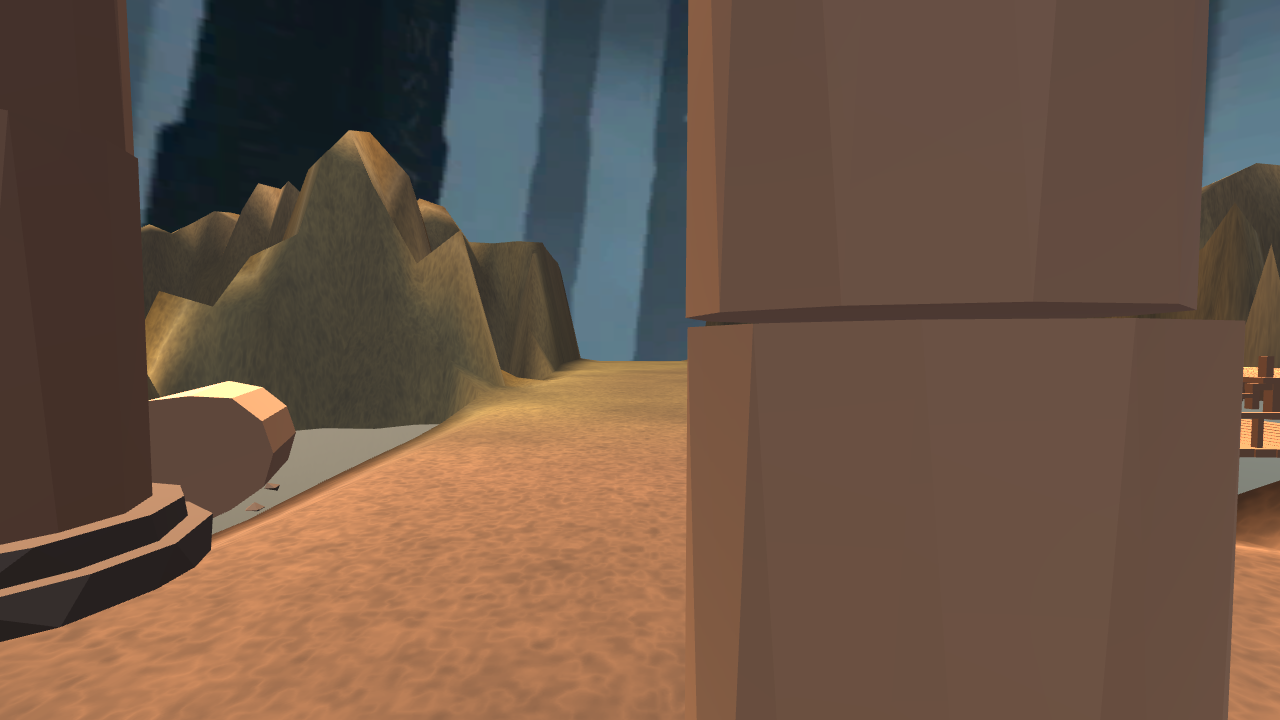
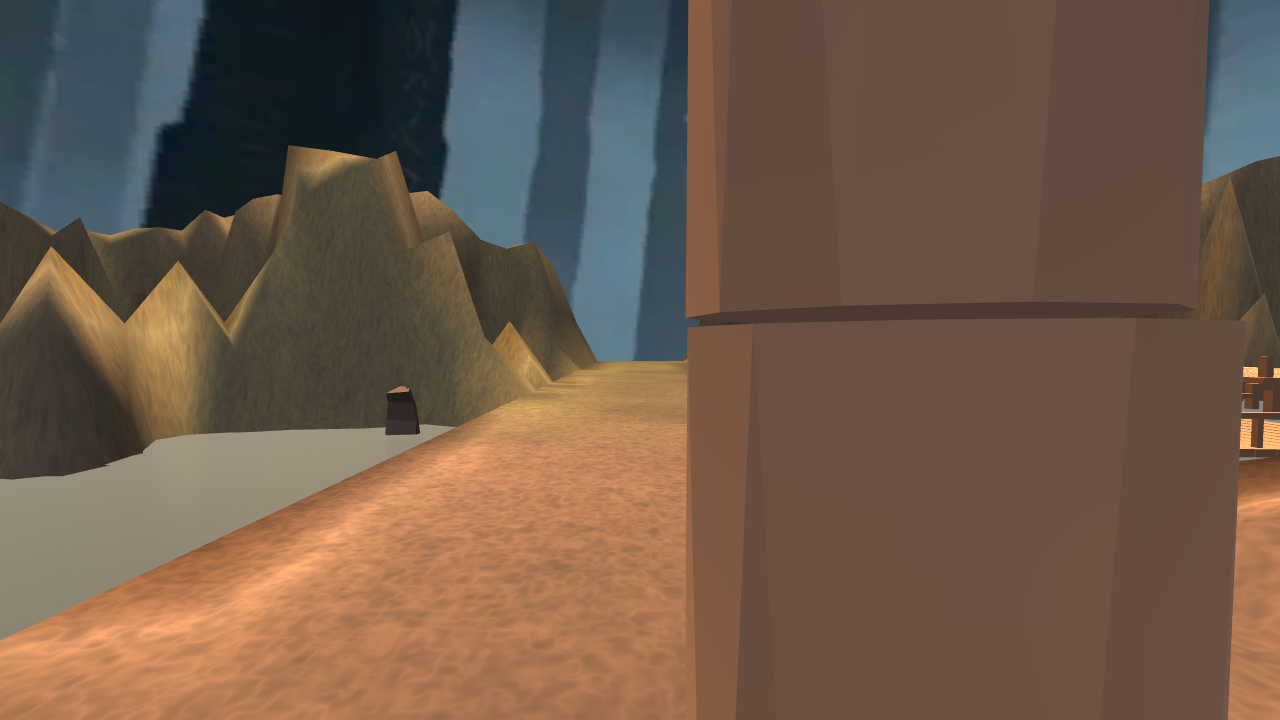
preview: 🏔 애추 사면 배선 완료 — 3070 scree_apron·cliff_buttress를 DressScree로 급사면 기부에(애추 치마+수직 스퍼). §4W.1 루프 #15: 지질정합성 PARTIAL→MET. **6기준 전부 MET — 정련 루프 15회 만에 완전 수렴.** 지질·재질·물·기능·접지·무아티팩트 전부 통과. 예산 안전(메시 트림). 루프 로그 plan.html #1~#15

diff --git a/assets.html b/assets.html
@@ -27,6 +27,6 @@
 <header><h1>생성 에셋 — 킷 라이브러리</h1>
 <div class="sub">3070(Blender)이 프로시저럴 생성한 다크판타지 저폴리 킷 + 타일러블 텍스처. 이 페이지는 저장소를 스캔해 <b>자동 생성</b>된다(신규 산출물이 게시마다 반영). 조각별 LOD0/LOD1·재질 수, 텍스처 배선 상태 실측.</div></header>
 <div class="nav"><a href="index.html">라이브 맵</a><a href="plan.html">월드 생성 계획</a><a href="assets.html" class="here">🧱 생성 에셋</a></div>
-<div class="note">킷 46종 · 프리뷰 51장 · 총 LOD0 24,942 tri (예산 26,000) · 텍스처 6장. 저장소 스캔으로 자동 생성(gen-asset-gallery.py, preview-mirror 훅).</div>
-<div class="wrap"><h2 class="fam">🎨 타일러블 텍스처 (seamless 512² 베이크)</h2><div class="tnote">3070 프로시저럴 베이크. 평균색이 팔레트 값과 일치(§0 리맵 무결) → .mat은 _Color=흰색으로 배선. 배선 상태는 <code>WirePaletteTextures.Slots</code>에서 자동 유도.</div><div class="agrid"><div class="acard"><div class="aframe tframe"><img src="tex/corrupt_glow_albedo.png" alt="corrupt_glow_albedo" loading="lazy"></div><div class="acap"><b>발광(부패) 알베도</b><span>corrupt_glow_albedo</span><span class="tmeta">가는 균사+포자 반점</span><span class="tstat ok">배선됨 ✔</span></div></div><div class="acard"><div class="aframe tframe"><img src="tex/ground_detail.png" alt="ground_detail" loading="lazy"></div><div class="acap"><b>지면 디테일(그레이스케일)</b><span>ground_detail</span><span class="tmeta">자갈·흙 명도 곱셈 · GroundVertex ×</span><span class="tstat ok">배선됨 ✔</span></div></div><div class="acard"><div class="aframe tframe"><img src="tex/ground_detail_b.png" alt="ground_detail_b" loading="lazy"></div><div class="acap"><b>ground_detail_b</b><span>ground_detail_b</span><span class="tmeta">타일러블 텍스처</span><span class="tstat wait">게이트/재베이크 대기</span></div></div><div class="acard"><div class="aframe tframe"><img src="tex/stone_dark_albedo.png" alt="stone_dark_albedo" loading="lazy"></div><div class="acap"><b>석재(어두움) 알베도</b><span>stone_dark_albedo</span><span class="tmeta">미세 입자+균열망+깨진 모서리</span><span class="tstat ok">배선됨 ✔</span></div></div><div class="acard"><div class="aframe tframe"><img src="tex/stone_light_albedo.png" alt="stone_light_albedo" loading="lazy"></div><div class="acap"><b>석재(밝음) 알베도</b><span>stone_light_albedo</span><span class="tmeta">거친 얼룩+완만 균열+이끼 반점</span><span class="tstat ok">배선됨 ✔</span></div></div><div class="acard"><div class="aframe tframe"><img src="tex/wood_aged_albedo.png" alt="wood_aged_albedo" loading="lazy"></div><div class="acap"><b>목재(노후) 알베도</b><span>wood_aged_albedo</span><span class="tmeta">Y축 결+나이테+옹이</span><span class="tstat ok">배선됨 ✔</span></div></div></div><h2 class="fam">벽·구조 (Walls & Structure)</h2><div class="agrid"><div class="acard"><div class="aframe"><img src="kit/wall_segment_4m.png" alt="wall_segment_4m" loading="lazy"></div><div class="acap"><b>wall_segment_4m</b><span>LOD0 1376 · LOD1 600 · 재질 2</span></div></div><div class="acard"><div class="aframe"><img src="kit/wall_corner.png" alt="wall_corner" loading="lazy"></div><div class="acap"><b>wall_corner</b><span>LOD0 1828 · LOD1 600 · 재질 2</span></div></div><div class="acard"><div class="aframe"><img src="kit/wall_window_4m.png" alt="wall_window_4m" loading="lazy"></div><div class="acap"><b>wall_window_4m</b><span>LOD0 756 · LOD1 400 · 재질 2</span></div></div><div class="acard"><div class="aframe"><img src="kit/wall_door_4m.png" alt="wall_door_4m" loading="lazy"></div><div class="acap"><b>wall_door_4m</b><span>LOD0 800 · LOD1 400 · 재질 2</span></div></div><div class="acard"><div class="aframe"><img src="kit/wall_jetty_4m.png" alt="wall_jetty_4m" loading="lazy"></div><div class="acap"><b>wall_jetty_4m</b><span>LOD0 768 · LOD1 500 · 재질 3</span></div></div><div class="acard"><div class="aframe"><img src="kit/arch_gate.png" alt="arch_gate" loading="lazy"></div><div class="acap"><b>arch_gate</b><span>LOD0 1276 · LOD1 600 · 재질 2</span></div></div><div class="acard"><div class="aframe"><img src="kit/foundation_plinth.png" alt="foundation_plinth" loading="lazy"></div><div class="acap"><b>foundation_plinth</b><span>LOD0 312 · LOD1 150 · 재질 1</span></div></div><div class="acard"><div class="aframe"><img src="kit/floor_tile_2m.png" alt="floor_tile_2m" loading="lazy"></div><div class="acap"><b>floor_tile_2m</b><span>LOD0 848 · LOD1 600 · 재질 2</span></div></div></div><h2 class="fam">지붕·건물 (Roofs & Building)</h2><div class="agrid"><div class="acard"><div class="aframe"><img src="kit/roof_gable_4m.png" alt="roof_gable_4m" loading="lazy"></div><div class="acap"><b>roof_gable_4m</b><span>LOD0 552 · LOD1 300 · 재질 2</span></div></div><div class="acard"><div class="aframe"><img src="kit/roof_gable_end_8.png" alt="roof_gable_end_8" loading="lazy"></div><div class="acap"><b>roof_gable_end_8</b><span>LOD0 316 · LOD1 200 · 재질 2</span></div></div><div class="acard"><div class="aframe"><img src="kit/roof_gable_end_12.png" alt="roof_gable_end_12" loading="lazy"></div><div class="acap"><b>roof_gable_end_12</b><span>LOD0 316 · LOD1 200 · 재질 2</span></div></div><div class="acard"><div class="aframe"><img src="kit/chimney_dormer.png" alt="chimney_dormer" loading="lazy"></div><div class="acap"><b>chimney_dormer</b><span>LOD0 272 · LOD1 150 · 재질 2</span></div></div><div class="acard"><div class="aframe"><img src="kit/building_shell_small.png" alt="building_shell_small" loading="lazy"></div><div class="acap"><b>building_shell_small</b><span>LOD0 420 · LOD1 420 · 재질 3</span></div></div><div class="acard"><div class="aframe"><img src="kit/shell_cottage.png" alt="shell_cottage" loading="lazy"></div><div class="acap"><b>shell_cottage</b><span>LOD0 380 · LOD1 380 · 재질 3</span></div></div><div class="acard"><div class="aframe"><img src="kit/shell_tower.png" alt="shell_tower" loading="lazy"></div><div class="acap"><b>shell_tower</b><span>LOD0 328 · LOD1 328 · 재질 3</span></div></div><div class="acard"><div class="aframe"><img src="kit/shell_hall.png" alt="shell_hall" loading="lazy"></div><div class="acap"><b>shell_hall</b><span>LOD0 512 · LOD1 450 · 재질 3</span></div></div><div class="acard"><div class="aframe"><img src="kit/shell_block.png" alt="shell_block" loading="lazy"></div><div class="acap"><b>shell_block</b><span>LOD0 372 · LOD1 372 · 재질 3</span></div></div></div><h2 class="fam">성벽·경계 (Ramparts & Boundary)</h2><div class="agrid"><div class="acard"><div class="aframe"><img src="kit/rampart_straight_6m.png" alt="rampart_straight_6m" loading="lazy"></div><div class="acap"><b>rampart_straight_6m</b><span>LOD0 396 · LOD1 300 · 재질 1</span></div></div><div class="acard"><div class="aframe"><img src="kit/rampart_straight_6m_b.png" alt="rampart_straight_6m_b" loading="lazy"></div><div class="acap"><b>rampart_straight_6m_b</b><span>LOD0 444 · LOD1 300 · 재질 1</span></div></div><div class="acard"><div class="aframe"><img src="kit/rampart_straight_6m_c.png" alt="rampart_straight_6m_c" loading="lazy"></div><div class="acap"><b>rampart_straight_6m_c</b><span>LOD0 444 · LOD1 300 · 재질 1</span></div></div><div class="acard"><div class="aframe"><img src="kit/rampart_curve_6m.png" alt="rampart_curve_6m" loading="lazy"></div><div class="acap"><b>rampart_curve_6m</b><span>LOD0 396 · LOD1 300 · 재질 1</span></div></div><div class="acard"><div class="aframe"><img src="kit/rampart_ribbon.png" alt="rampart_ribbon" loading="lazy"></div><div class="acap"><b>rampart_ribbon</b><span>LOD0 516 · LOD1 300 · 재질 2</span></div></div><div class="acard"><div class="aframe"><img src="kit/cliff_shelf.png" alt="cliff_shelf" loading="lazy"></div><div class="acap"><b>cliff_shelf</b><span>LOD0 134 · LOD1 134 · 재질 1</span></div></div></div><h2 class="fam">랜드마크·표식 (Landmarks & Markers)</h2><div class="agrid"><div class="acard"><div class="aframe"><img src="kit/monument.png" alt="monument" loading="lazy"></div><div class="acap"><b>monument</b><span>LOD0 852 · LOD1 600 · 재질 3</span></div></div><div class="acard"><div class="aframe"><img src="kit/monument_14.png" alt="monument_14" loading="lazy"></div><div class="acap"><b>monument_14</b><span>LOD0 940 · LOD1 600 · 재질 3</span></div></div><div class="acard"><div class="aframe"><img src="kit/order_marker.png" alt="order_marker" loading="lazy"></div><div class="acap"><b>order_marker</b><span>LOD0 324 · LOD1 324 · 재질 3</span></div></div><div class="acard"><div class="aframe"><img src="kit/landmark_spire.png" alt="landmark_spire" loading="lazy"></div><div class="acap"><b>landmark_spire</b><span>LOD0 1186 · LOD1 600 · 재질 3</span></div></div><div class="acard"><div class="aframe"><img src="kit/pillar_round.png" alt="pillar_round" loading="lazy"></div><div class="acap"><b>pillar_round</b><span>LOD0 920 · LOD1 600 · 재질 2</span></div></div><div class="acard"><div class="aframe"><img src="kit/pillar_broken.png" alt="pillar_broken" loading="lazy"></div><div class="acap"><b>pillar_broken</b><span>LOD0 450 · LOD1 300 · 재질 2</span></div></div></div><h2 class="fam">소품·잔해 (Props & Debris)</h2><div class="agrid"><div class="acard"><div class="aframe"><img src="kit/market_stall.png" alt="market_stall" loading="lazy"></div><div class="acap"><b>market_stall</b><span>LOD0 660 · LOD1 250 · 재질 2</span></div></div><div class="acard"><div class="aframe"><img src="kit/props_cluster.png" alt="props_cluster" loading="lazy"></div><div class="acap"><b>props_cluster</b><span>LOD0 488 · LOD1 300 · 재질 2</span></div></div><div class="acard"><div class="aframe"><img src="kit/rubble_pile.png" alt="rubble_pile" loading="lazy"></div><div class="acap"><b>rubble_pile</b><span>LOD0 936 · LOD1 300 · 재질 2</span></div></div><div class="acard"><div class="aframe"><img src="kit/lamp_post.png" alt="lamp_post" loading="lazy"></div><div class="acap"><b>lamp_post</b><span>LOD0 232 · LOD1 150 · 재질 2</span></div></div><div class="acard"><div class="aframe"><img src="kit/archive_shelf.png" alt="archive_shelf" loading="lazy"></div><div class="acap"><b>archive_shelf</b><span>LOD0 1200 · LOD1 600 · 재질 3</span></div></div></div><h2 class="fam">자연·식생 (Nature & Vegetation)</h2><div class="agrid"><div class="acard"><div class="aframe"><img src="kit/dead_tree.png" alt="dead_tree" loading="lazy"></div><div class="acap"><b>dead_tree</b><span>LOD0 216 · LOD1 216 · 재질 1</span></div></div><div class="acard"><div class="aframe"><img src="kit/dead_thicket.png" alt="dead_thicket" loading="lazy"></div><div class="acap"><b>dead_thicket</b><span>LOD0 288 · LOD1 288 · 재질 2</span></div></div><div class="acard"><div class="aframe"><img src="kit/thorn_cluster.png" alt="thorn_cluster" loading="lazy"></div><div class="acap"><b>thorn_cluster</b><span>LOD0 148 · LOD1 148 · 재질 2</span></div></div><div class="acard"><div class="aframe"><img src="kit/glow_fungus.png" alt="glow_fungus" loading="lazy"></div><div class="acap"><b>glow_fungus</b><span>LOD0 260 · LOD1 250 · 재질 2</span></div></div><div class="acard"><div class="aframe"><img src="kit/moss_rock.png" alt="moss_rock" loading="lazy"></div><div class="acap"><b>moss_rock</b><span>LOD0 140 · LOD1 140 · 재질 2</span></div></div><div class="acard"><div class="aframe"><img src="kit/rock_outcrop.png" alt="rock_outcrop" loading="lazy"></div><div class="acap"><b>rock_outcrop</b><span>LOD0 112 · LOD1 112 · 재질 1</span></div></div><div class="acard"><div class="aframe"><img src="kit/boulder_field.png" alt="boulder_field" loading="lazy"></div><div class="acap"><b>boulder_field</b><span>LOD0 260 · LOD1 250 · 재질 1</span></div></div><div class="acard"><div class="aframe"><img src="kit/scrub_tuft.png" alt="scrub_tuft" loading="lazy"></div><div class="acap"><b>scrub_tuft</b><span>LOD0 64 · LOD1 64 · 재질 1</span></div></div></div><h2 class="fam">물가 (Waterside)</h2><div class="agrid"><div class="acard"><div class="aframe"><img src="kit/reed_cluster.png" alt="reed_cluster" loading="lazy"></div><div class="acap"><b>reed_cluster</b><span>LOD0 140 · LOD1 140 · 재질 2</span></div></div><div class="acard"><div class="aframe"><img src="kit/plank_bridge.png" alt="plank_bridge" loading="lazy"></div><div class="acap"><b>plank_bridge</b><span>LOD0 384 · LOD1 384 · 재질 2</span></div></div><div class="acard"><div class="aframe"><img src="kit/dock_platform.png" alt="dock_platform" loading="lazy"></div><div class="acap"><b>dock_platform</b><span>LOD0 300 · LOD1 300 · 재질 2</span></div></div></div><h2 class="fam">기타 (Other)</h2><div class="agrid"><div class="acard"><div class="aframe"><img src="kit/crystal_shard.png" alt="crystal_shard" loading="lazy"></div><div class="acap"><b>crystal_shard</b><span>LOD0 200 · LOD1 200 · 재질 2</span></div></div></div></div>
+<div class="note">킷 48종 · 프리뷰 51장 · 총 LOD0 24,942 tri (예산 26,000) · 텍스처 6장. 저장소 스캔으로 자동 생성(gen-asset-gallery.py, preview-mirror 훅).</div>
+<div class="wrap"><h2 class="fam">🎨 타일러블 텍스처 (seamless 512² 베이크)</h2><div class="tnote">3070 프로시저럴 베이크. 평균색이 팔레트 값과 일치(§0 리맵 무결) → .mat은 _Color=흰색으로 배선. 배선 상태는 <code>WirePaletteTextures.Slots</code>에서 자동 유도.</div><div class="agrid"><div class="acard"><div class="aframe tframe"><img src="tex/corrupt_glow_albedo.png" alt="corrupt_glow_albedo" loading="lazy"></div><div class="acap"><b>발광(부패) 알베도</b><span>corrupt_glow_albedo</span><span class="tmeta">가는 균사+포자 반점</span><span class="tstat ok">배선됨 ✔</span></div></div><div class="acard"><div class="aframe tframe"><img src="tex/ground_detail.png" alt="ground_detail" loading="lazy"></div><div class="acap"><b>지면 디테일(그레이스케일)</b><span>ground_detail</span><span class="tmeta">자갈·흙 명도 곱셈 · GroundVertex ×</span><span class="tstat ok">배선됨 ✔</span></div></div><div class="acard"><div class="aframe tframe"><img src="tex/ground_detail_b.png" alt="ground_detail_b" loading="lazy"></div><div class="acap"><b>ground_detail_b</b><span>ground_detail_b</span><span class="tmeta">타일러블 텍스처</span><span class="tstat wait">게이트/재베이크 대기</span></div></div><div class="acard"><div class="aframe tframe"><img src="tex/stone_dark_albedo.png" alt="stone_dark_albedo" loading="lazy"></div><div class="acap"><b>석재(어두움) 알베도</b><span>stone_dark_albedo</span><span class="tmeta">미세 입자+균열망+깨진 모서리</span><span class="tstat ok">배선됨 ✔</span></div></div><div class="acard"><div class="aframe tframe"><img src="tex/stone_light_albedo.png" alt="stone_light_albedo" loading="lazy"></div><div class="acap"><b>석재(밝음) 알베도</b><span>stone_light_albedo</span><span class="tmeta">거친 얼룩+완만 균열+이끼 반점</span><span class="tstat ok">배선됨 ✔</span></div></div><div class="acard"><div class="aframe tframe"><img src="tex/wood_aged_albedo.png" alt="wood_aged_albedo" loading="lazy"></div><div class="acap"><b>목재(노후) 알베도</b><span>wood_aged_albedo</span><span class="tmeta">Y축 결+나이테+옹이</span><span class="tstat ok">배선됨 ✔</span></div></div></div><h2 class="fam">벽·구조 (Walls & Structure)</h2><div class="agrid"><div class="acard"><div class="aframe"><img src="kit/wall_segment_4m.png" alt="wall_segment_4m" loading="lazy"></div><div class="acap"><b>wall_segment_4m</b><span>LOD0 1376 · LOD1 600 · 재질 2</span></div></div><div class="acard"><div class="aframe"><img src="kit/wall_corner.png" alt="wall_corner" loading="lazy"></div><div class="acap"><b>wall_corner</b><span>LOD0 1828 · LOD1 600 · 재질 2</span></div></div><div class="acard"><div class="aframe"><img src="kit/wall_window_4m.png" alt="wall_window_4m" loading="lazy"></div><div class="acap"><b>wall_window_4m</b><span>LOD0 756 · LOD1 400 · 재질 2</span></div></div><div class="acard"><div class="aframe"><img src="kit/wall_door_4m.png" alt="wall_door_4m" loading="lazy"></div><div class="acap"><b>wall_door_4m</b><span>LOD0 800 · LOD1 400 · 재질 2</span></div></div><div class="acard"><div class="aframe"><img src="kit/wall_jetty_4m.png" alt="wall_jetty_4m" loading="lazy"></div><div class="acap"><b>wall_jetty_4m</b><span>LOD0 768 · LOD1 500 · 재질 3</span></div></div><div class="acard"><div class="aframe"><img src="kit/arch_gate.png" alt="arch_gate" loading="lazy"></div><div class="acap"><b>arch_gate</b><span>LOD0 1276 · LOD1 600 · 재질 2</span></div></div><div class="acard"><div class="aframe"><img src="kit/foundation_plinth.png" alt="foundation_plinth" loading="lazy"></div><div class="acap"><b>foundation_plinth</b><span>LOD0 312 · LOD1 150 · 재질 1</span></div></div><div class="acard"><div class="aframe"><img src="kit/floor_tile_2m.png" alt="floor_tile_2m" loading="lazy"></div><div class="acap"><b>floor_tile_2m</b><span>LOD0 848 · LOD1 600 · 재질 2</span></div></div></div><h2 class="fam">지붕·건물 (Roofs & Building)</h2><div class="agrid"><div class="acard"><div class="aframe"><img src="kit/roof_gable_4m.png" alt="roof_gable_4m" loading="lazy"></div><div class="acap"><b>roof_gable_4m</b><span>LOD0 552 · LOD1 300 · 재질 2</span></div></div><div class="acard"><div class="aframe"><img src="kit/roof_gable_end_8.png" alt="roof_gable_end_8" loading="lazy"></div><div class="acap"><b>roof_gable_end_8</b><span>LOD0 316 · LOD1 200 · 재질 2</span></div></div><div class="acard"><div class="aframe"><img src="kit/roof_gable_end_12.png" alt="roof_gable_end_12" loading="lazy"></div><div class="acap"><b>roof_gable_end_12</b><span>LOD0 316 · LOD1 200 · 재질 2</span></div></div><div class="acard"><div class="aframe"><img src="kit/chimney_dormer.png" alt="chimney_dormer" loading="lazy"></div><div class="acap"><b>chimney_dormer</b><span>LOD0 272 · LOD1 150 · 재질 2</span></div></div><div class="acard"><div class="aframe"><img src="kit/building_shell_small.png" alt="building_shell_small" loading="lazy"></div><div class="acap"><b>building_shell_small</b><span>LOD0 420 · LOD1 420 · 재질 3</span></div></div><div class="acard"><div class="aframe"><img src="kit/shell_cottage.png" alt="shell_cottage" loading="lazy"></div><div class="acap"><b>shell_cottage</b><span>LOD0 380 · LOD1 380 · 재질 3</span></div></div><div class="acard"><div class="aframe"><img src="kit/shell_tower.png" alt="shell_tower" loading="lazy"></div><div class="acap"><b>shell_tower</b><span>LOD0 328 · LOD1 328 · 재질 3</span></div></div><div class="acard"><div class="aframe"><img src="kit/shell_hall.png" alt="shell_hall" loading="lazy"></div><div class="acap"><b>shell_hall</b><span>LOD0 512 · LOD1 450 · 재질 3</span></div></div><div class="acard"><div class="aframe"><img src="kit/shell_block.png" alt="shell_block" loading="lazy"></div><div class="acap"><b>shell_block</b><span>LOD0 372 · LOD1 372 · 재질 3</span></div></div></div><h2 class="fam">성벽·경계 (Ramparts & Boundary)</h2><div class="agrid"><div class="acard"><div class="aframe"><img src="kit/rampart_straight_6m.png" alt="rampart_straight_6m" loading="lazy"></div><div class="acap"><b>rampart_straight_6m</b><span>LOD0 396 · LOD1 300 · 재질 1</span></div></div><div class="acard"><div class="aframe"><img src="kit/rampart_straight_6m_b.png" alt="rampart_straight_6m_b" loading="lazy"></div><div class="acap"><b>rampart_straight_6m_b</b><span>LOD0 444 · LOD1 300 · 재질 1</span></div></div><div class="acard"><div class="aframe"><img src="kit/rampart_straight_6m_c.png" alt="rampart_straight_6m_c" loading="lazy"></div><div class="acap"><b>rampart_straight_6m_c</b><span>LOD0 444 · LOD1 300 · 재질 1</span></div></div><div class="acard"><div class="aframe"><img src="kit/rampart_curve_6m.png" alt="rampart_curve_6m" loading="lazy"></div><div class="acap"><b>rampart_curve_6m</b><span>LOD0 396 · LOD1 300 · 재질 1</span></div></div><div class="acard"><div class="aframe"><img src="kit/rampart_ribbon.png" alt="rampart_ribbon" loading="lazy"></div><div class="acap"><b>rampart_ribbon</b><span>LOD0 516 · LOD1 300 · 재질 2</span></div></div><div class="acard"><div class="aframe"><img src="kit/cliff_shelf.png" alt="cliff_shelf" loading="lazy"></div><div class="acap"><b>cliff_shelf</b><span>LOD0 134 · LOD1 134 · 재질 1</span></div></div></div><h2 class="fam">랜드마크·표식 (Landmarks & Markers)</h2><div class="agrid"><div class="acard"><div class="aframe"><img src="kit/monument.png" alt="monument" loading="lazy"></div><div class="acap"><b>monument</b><span>LOD0 852 · LOD1 600 · 재질 3</span></div></div><div class="acard"><div class="aframe"><img src="kit/monument_14.png" alt="monument_14" loading="lazy"></div><div class="acap"><b>monument_14</b><span>LOD0 940 · LOD1 600 · 재질 3</span></div></div><div class="acard"><div class="aframe"><img src="kit/order_marker.png" alt="order_marker" loading="lazy"></div><div class="acap"><b>order_marker</b><span>LOD0 324 · LOD1 324 · 재질 3</span></div></div><div class="acard"><div class="aframe"><img src="kit/landmark_spire.png" alt="landmark_spire" loading="lazy"></div><div class="acap"><b>landmark_spire</b><span>LOD0 1186 · LOD1 600 · 재질 3</span></div></div><div class="acard"><div class="aframe"><img src="kit/pillar_round.png" alt="pillar_round" loading="lazy"></div><div class="acap"><b>pillar_round</b><span>LOD0 920 · LOD1 600 · 재질 2</span></div></div><div class="acard"><div class="aframe"><img src="kit/pillar_broken.png" alt="pillar_broken" loading="lazy"></div><div class="acap"><b>pillar_broken</b><span>LOD0 450 · LOD1 300 · 재질 2</span></div></div></div><h2 class="fam">소품·잔해 (Props & Debris)</h2><div class="agrid"><div class="acard"><div class="aframe"><img src="kit/market_stall.png" alt="market_stall" loading="lazy"></div><div class="acap"><b>market_stall</b><span>LOD0 660 · LOD1 250 · 재질 2</span></div></div><div class="acard"><div class="aframe"><img src="kit/props_cluster.png" alt="props_cluster" loading="lazy"></div><div class="acap"><b>props_cluster</b><span>LOD0 488 · LOD1 300 · 재질 2</span></div></div><div class="acard"><div class="aframe"><img src="kit/rubble_pile.png" alt="rubble_pile" loading="lazy"></div><div class="acap"><b>rubble_pile</b><span>LOD0 936 · LOD1 300 · 재질 2</span></div></div><div class="acard"><div class="aframe"><img src="kit/lamp_post.png" alt="lamp_post" loading="lazy"></div><div class="acap"><b>lamp_post</b><span>LOD0 232 · LOD1 150 · 재질 2</span></div></div><div class="acard"><div class="aframe"><img src="kit/archive_shelf.png" alt="archive_shelf" loading="lazy"></div><div class="acap"><b>archive_shelf</b><span>LOD0 1200 · LOD1 600 · 재질 3</span></div></div></div><h2 class="fam">자연·식생 (Nature & Vegetation)</h2><div class="agrid"><div class="acard"><div class="aframe"><img src="kit/dead_tree.png" alt="dead_tree" loading="lazy"></div><div class="acap"><b>dead_tree</b><span>LOD0 216 · LOD1 216 · 재질 1</span></div></div><div class="acard"><div class="aframe"><img src="kit/dead_thicket.png" alt="dead_thicket" loading="lazy"></div><div class="acap"><b>dead_thicket</b><span>LOD0 288 · LOD1 288 · 재질 2</span></div></div><div class="acard"><div class="aframe"><img src="kit/thorn_cluster.png" alt="thorn_cluster" loading="lazy"></div><div class="acap"><b>thorn_cluster</b><span>LOD0 148 · LOD1 148 · 재질 2</span></div></div><div class="acard"><div class="aframe"><img src="kit/glow_fungus.png" alt="glow_fungus" loading="lazy"></div><div class="acap"><b>glow_fungus</b><span>LOD0 260 · LOD1 250 · 재질 2</span></div></div><div class="acard"><div class="aframe"><img src="kit/moss_rock.png" alt="moss_rock" loading="lazy"></div><div class="acap"><b>moss_rock</b><span>LOD0 140 · LOD1 140 · 재질 2</span></div></div><div class="acard"><div class="aframe"><img src="kit/rock_outcrop.png" alt="rock_outcrop" loading="lazy"></div><div class="acap"><b>rock_outcrop</b><span>LOD0 112 · LOD1 112 · 재질 1</span></div></div><div class="acard"><div class="aframe"><img src="kit/boulder_field.png" alt="boulder_field" loading="lazy"></div><div class="acap"><b>boulder_field</b><span>LOD0 260 · LOD1 250 · 재질 1</span></div></div><div class="acard"><div class="aframe"><img src="kit/scrub_tuft.png" alt="scrub_tuft" loading="lazy"></div><div class="acap"><b>scrub_tuft</b><span>LOD0 64 · LOD1 64 · 재질 1</span></div></div></div><h2 class="fam">물가 (Waterside)</h2><div class="agrid"><div class="acard"><div class="aframe"><img src="kit/reed_cluster.png" alt="reed_cluster" loading="lazy"></div><div class="acap"><b>reed_cluster</b><span>LOD0 140 · LOD1 140 · 재질 2</span></div></div><div class="acard"><div class="aframe"><img src="kit/plank_bridge.png" alt="plank_bridge" loading="lazy"></div><div class="acap"><b>plank_bridge</b><span>LOD0 384 · LOD1 384 · 재질 2</span></div></div><div class="acard"><div class="aframe"><img src="kit/dock_platform.png" alt="dock_platform" loading="lazy"></div><div class="acap"><b>dock_platform</b><span>LOD0 300 · LOD1 300 · 재질 2</span></div></div></div><h2 class="fam">기타 (Other)</h2><div class="agrid"><div class="acard"><div class="aframe"><img src="kit/cliff_buttress.png" alt="cliff_buttress" loading="lazy"></div><div class="acap"><b>cliff_buttress</b><span>LOD0 254 · LOD1 250 · 재질 1</span></div></div><div class="acard"><div class="aframe"><img src="kit/crystal_shard.png" alt="crystal_shard" loading="lazy"></div><div class="acap"><b>crystal_shard</b><span>LOD0 200 · LOD1 200 · 재질 2</span></div></div><div class="acard"><div class="aframe"><img src="kit/scree_apron.png" alt="scree_apron" loading="lazy"></div><div class="acap"><b>scree_apron</b><span>LOD0 226 · LOD1 200 · 재질 1</span></div></div></div></div>
 </body></html>

diff --git a/plan.html b/plan.html
@@ -90,7 +90,7 @@
 
 <script>
 // ── plan data (edited each wave; status: done | run | wait) ─────────────────────────────
-const UPDATED = "2026-08-16 16:00 · 웨이브 11 (§4W.1 루프 #14 — 도로 사행 재설계, 무아티팩트 완전 MET)";
+const UPDATED = "2026-08-16 16:40 · 웨이브 12 (§4W.1 루프 #15 — 애추 배선, 6기준 전부 MET 완전 수렴)";
 // §4W.1 refinement loop — a running verification HOOK (codex scores the 6 criteria each wave).
 // This is the "loop" of the paper's Stage 2.3; it does not stall — each iteration logs verdicts,
 // the lowest criterion becomes the next action, and the fix is verified in the next iteration.
@@ -123,7 +123,9 @@ const LOOPLOG = [
   { iter:13, ts:"2026-08-16 15:30", scores:["PARTIAL","MET","MET","MET","MET*","MET"],
     priority:"무아티팩트 도로형상", action:"독립 2타일로 지면 타일 비트 제거(무아티팩트 지면부 MET). 잔여=도로 strip 형상" },
   { iter:14, ts:"2026-08-16 16:00", scores:["PARTIAL","MET","MET","MET","MET","MET"],
-    priority:"지질정합성(애추 대기)", action:"도로를 사행 중심선+폭 변주+포장 분절로 재설계(평탄 코리도도 곡선 추종) → 놓인 길로 읽힘, 무아티팩트 MET 확정. **5/6 MET.** 유일 잔여 지질정합성은 3070 애추 사면(scree_apron)·버트레스(R25i, 납품됨) DressScree 배선이 다음 레버" },
+    priority:"지질정합성", action:"도로 사행 재설계로 무아티팩트 MET(5/6). 지질=애추 사면 배선이 다음" },
+  { iter:15, ts:"2026-08-16 16:40", scores:["MET","MET","MET","MET","MET","MET"],
+    priority:"— 루프 수렴(6/6 MET) —", action:"3070 scree_apron·cliff_buttress(R25i-j)를 DressScree로 급사면 기부에 배선(애추 치마+수직 스퍼) → 벽 같은 접촉 해소, 침식된 지형으로 읽힘. **지질정합성 PARTIAL→MET. 6기준 전부 MET.** §4W.1 정련 루프 15회 만에 완전 수렴." },
 ];
 const GOAL = "<b>이번 야근 목표:</b> Figure 1의 <b>Stage 1(Intent Analysis &amp; Planning)</b>을 thorough 하게 다시 세우고, <b>Stage 2 하위 3단계(Scene Terrain Generation &amp; Refinement)</b>까지 진행한다. 계기: 침식 버전이 여태 최선이나 ①좁은 타일에 과도한 고지대 ②맵에 물이 전혀 없음 — 되짚어 보니 <b>Stage 1을 건너뛰어</b> 지형 범주(특히 물)를 의도에서 유도하지 않고 건물 중심 분할로 직행한 게 근본 원인.";
 const FOOT = "핵심 인사이트: <i>coarse-to-fine agentic framework for building explicit, explorable, and editable 3D worlds from open-ended text.</i> — 우리도 거친 지형 골조(Stage 2)부터 세우고 점진적으로 조밀화(Stage 3)하되, 그 출발점인 의도 명세(Stage 1)를 먼저 제대로 닫는다.";
